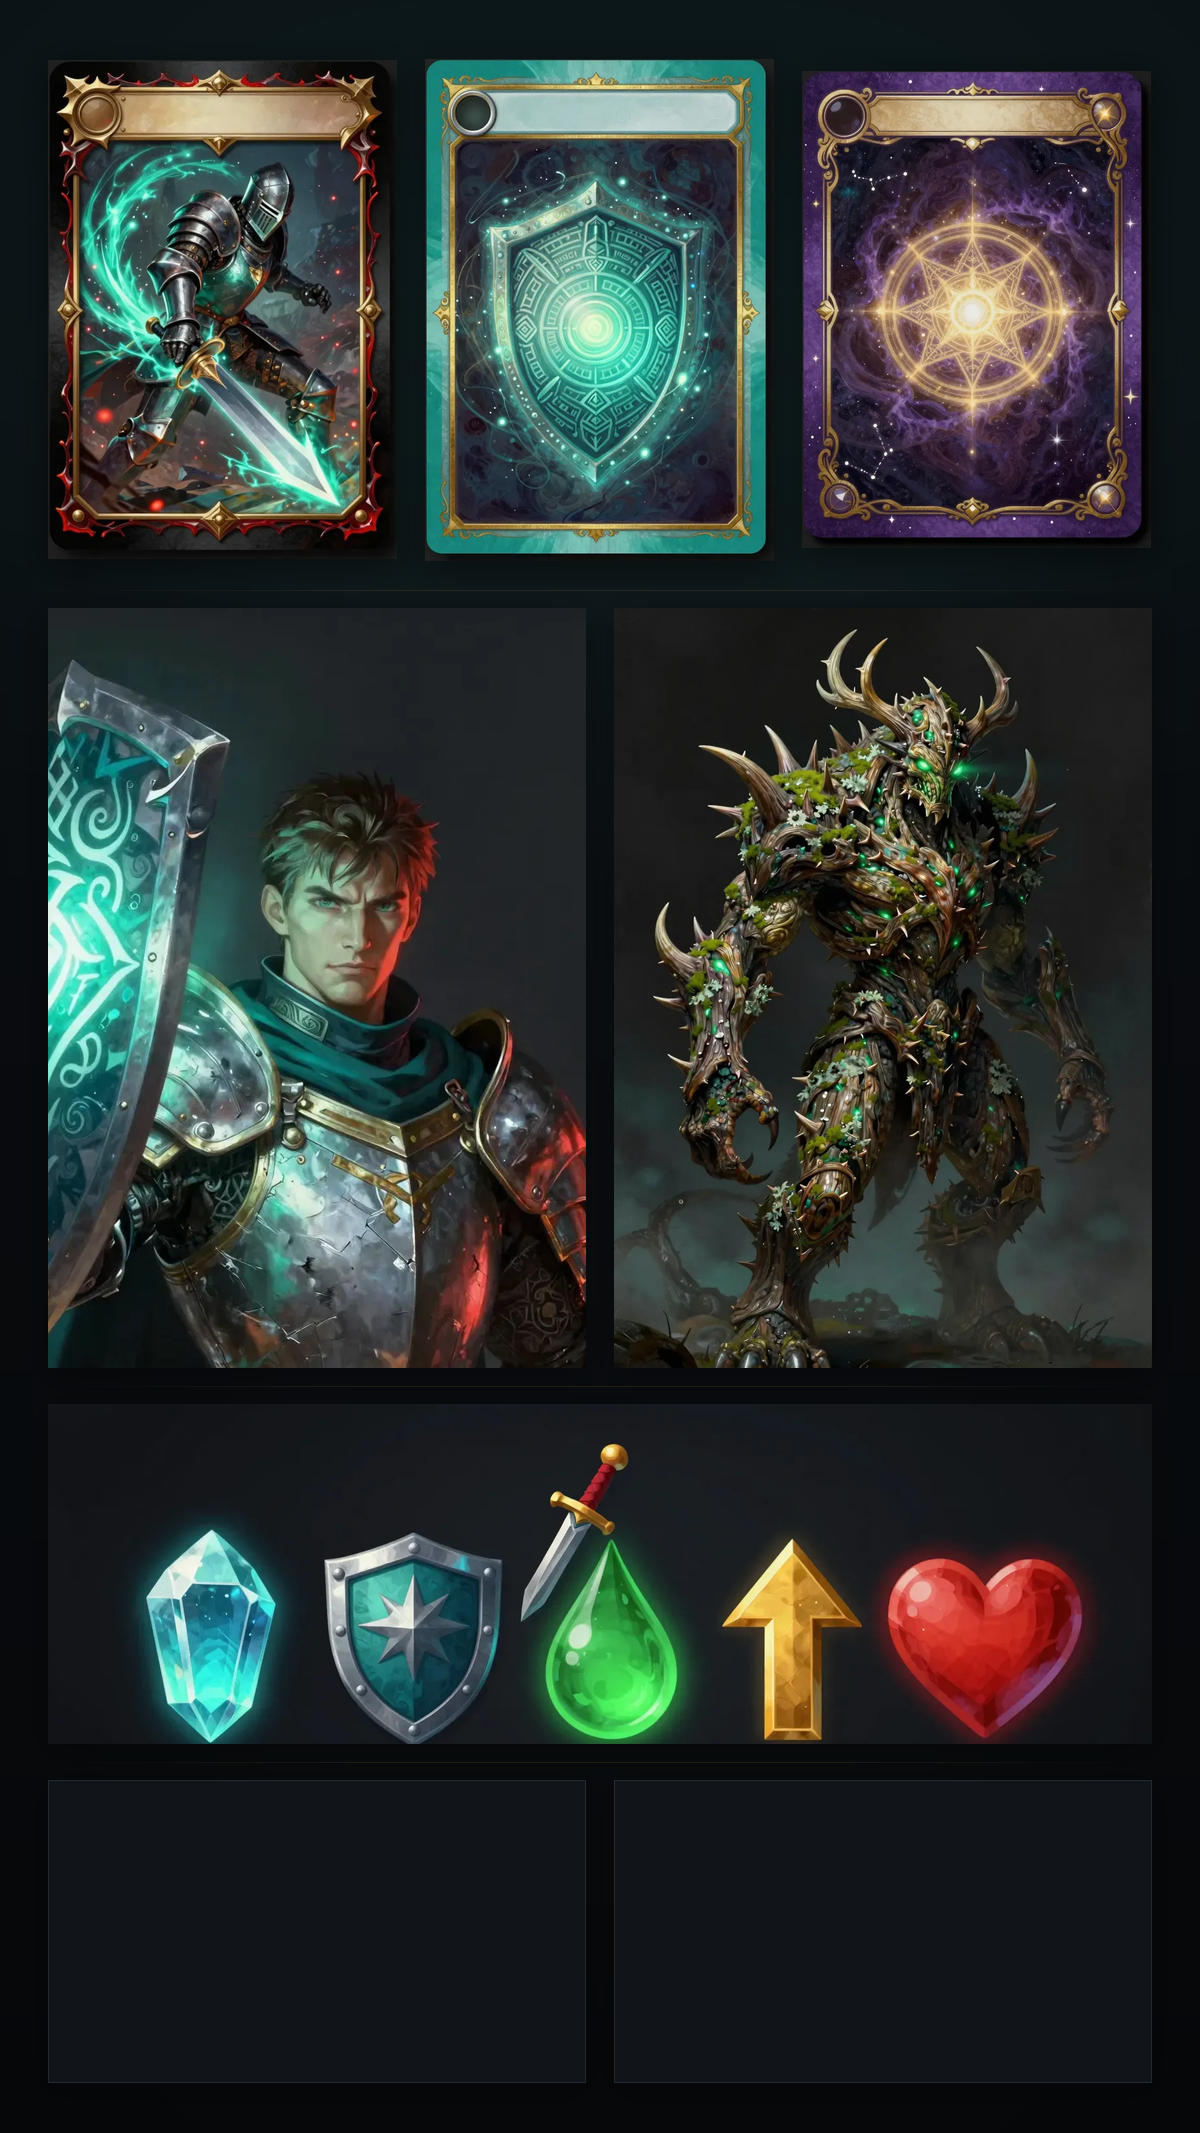
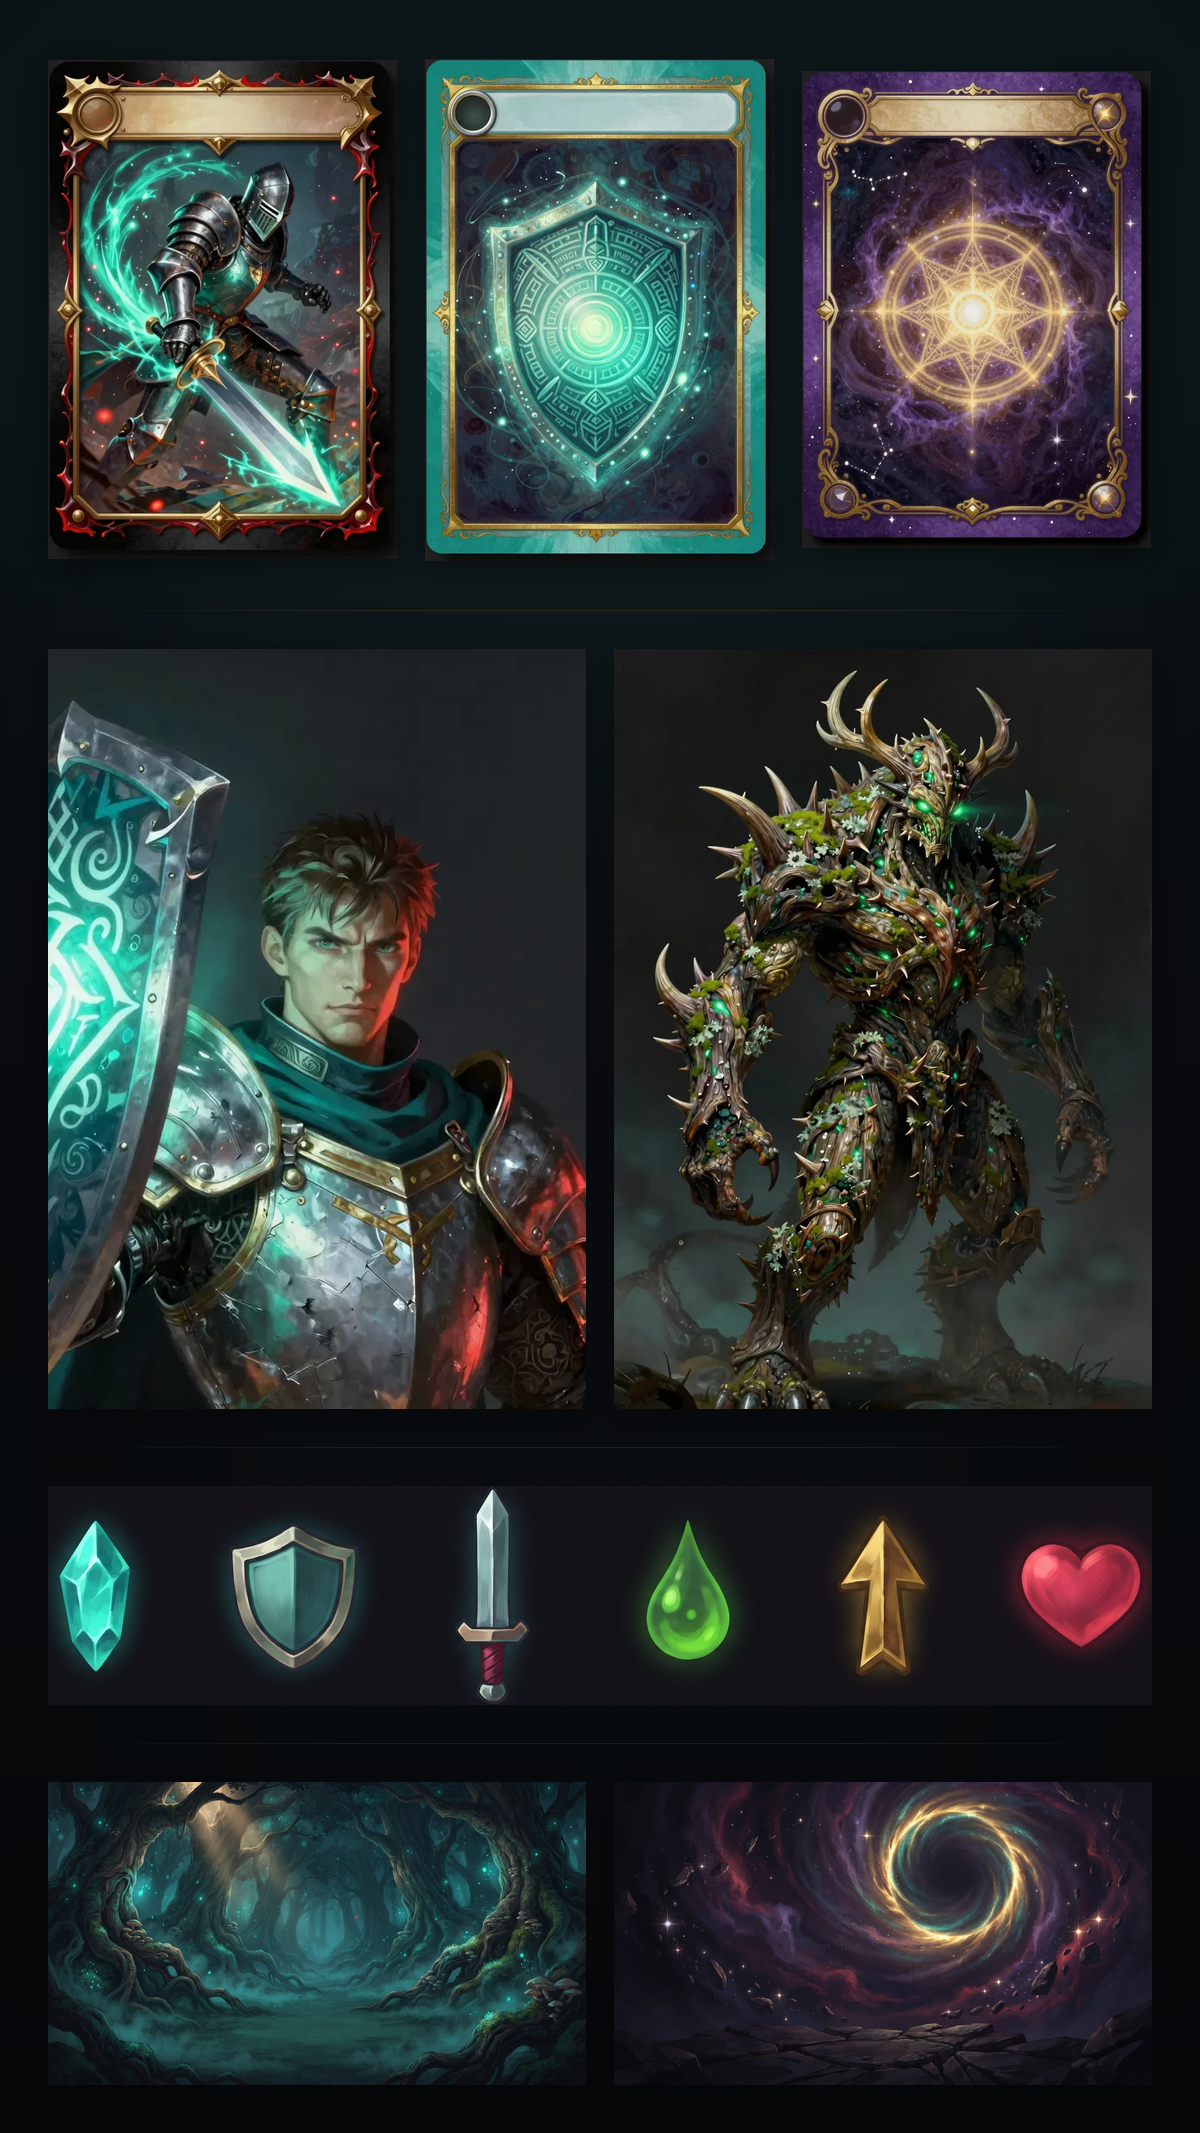
Art board: drop in the Gemini panels and even out the layout
Completes the board. The two backdrops and a respaced six-icon row came back
from Gemini clean -- no lettering, six separated icons, both backdrops 16:9 with
an empty foreground -- so they go straight into panels/.

- build_board.py: measure every row and distribute the leftover height evenly
  between them instead of using fixed gaps, so the board stays 1200x2133
  whatever the panels measure. Trim the icon row to its own content first (the
  source carries wide dead margins), and centre the crop for icons and
  backdrops while the hero and enemy keep the upward bias.
- panels/: add bg_forest.jpg, bg_cosmic.jpg, icons.jpg; drop the old icons.webp
  whose sword overlapped the droplet and read as five icons.
- QUEST_ART_DIRECTION_PROMPTS.md: record which generator produced which panel.

Claude-Session: https://claude.ai/code/session_011DNhh8n3m6VEBJvMHfDWFh

Changed region(s): [[0.0308, 0.2785, 0.9558, 0.9902]]

diff --git a/art/art-direction/build_board.py b/art/art-direction/build_board.py
@@ -54,12 +54,13 @@ def precrop(img, frac):
     return img.crop((0, 0, img.width, round(img.height * frac)))
 
 
-def cover(img, cw, ch):
+def cover(img, cw, ch, bias=4):
+    """Scale to fill the cell and crop. bias=4 pulls the crop upward (keeps heads and
+    card tops safe); bias=2 centres it (right for symmetrical art like the icon row)."""
     s = max(cw / img.width, ch / img.height)
     r = img.resize((max(1, round(img.width * s)), max(1, round(img.height * s))), Image.LANCZOS)
-    # bias the crop upward so heads and card tops are never clipped
     x = (r.width - cw) // 2
-    y = min(max(0, (r.height - ch) // 4), max(0, r.height - ch))
+    y = min(max(0, (r.height - ch) // bias), max(0, r.height - ch))
     return r.crop((x, y, x + cw, y + ch))
 
 
@@ -103,57 +104,67 @@ def rule(board, y, inset=MARGIN, alpha=34):
 
 def main():
     board = background()
-    y = MARGIN
 
-    # --- Row 1: three card frames -------------------------------------------------
+    # --- build every row first, then distribute the leftover height evenly ------
+    rows = []
+
+    # Row 1: three card frames, normalised to a common height
     cw = (W - MARGIN * 2 - GAP * 2) // 3
     ch = 524
-    cards = [load(n) for n in ("card_attack.webp", "card_skill.webp", "card_power.webp")]
-    for i, c in enumerate(cards):
-        x = MARGIN + i * (cw + GAP)
+    cards = []
+    for i, n in enumerate(("card_attack", "card_skill", "card_power")):
+        c = load(n)
         if c is None:
             continue
         im = contain(trim(c), cw, ch)
-        paste(board, im, x + (cw - im.width) // 2, y + (ch - im.height) // 2, shadow=30)
-    y += ch + 36
-    rule(board, y - 18)
+        cards.append((im, MARGIN + i * (cw + GAP) + (cw - im.width) // 2,
+                      (ch - im.height) // 2, 30))
+    rows.append((ch, cards))
 
-    # --- Row 2: hero + enemy ------------------------------------------------------
-    pw = (W - MARGIN * 2 - GAP) // 2
-    ph = 760
-    for i, (n, frac) in enumerate((("hero.webp", 0.60), ("enemy.webp", 1.0))):
+    # Row 2: hero + enemy
+    pw, ph = (W - MARGIN * 2 - GAP) // 2, 760
+    chars = []
+    for i, (n, frac) in enumerate((("hero", 0.60), ("enemy", 1.0))):
         im = load(n)
         if im is None:
             continue
         if frac < 1.0:
             im = precrop(im, frac)
-        paste(board, cover(im, pw, ph), MARGIN + i * (pw + GAP), y, shadow=24)
-    y += ph + 36
-    rule(board, y - 18)
+        chars.append((cover(im, pw, ph), MARGIN + i * (pw + GAP), 0, 24))
+    rows.append((ph, chars))
 
-    # --- Row 3: UI icon row -------------------------------------------------------
-    iw, ih = W - MARGIN * 2, 340
-    icons = load("icons.webp")
+    # Row 3: the icon row, trimmed to its own content so no dead margin is carried in
+    icons = load("icons")
     if icons is not None:
-        paste(board, cover(icons, iw, ih), MARGIN, y, shadow=20)
-    y += ih + 36
-    rule(board, y - 18)
+        im = contain(trim(icons, tol=12), W - MARGIN * 2, 420)
+        rows.append((im.height, [(im, MARGIN + (W - MARGIN * 2 - im.width) // 2, 0, 0)]))
 
-    # --- Row 4: backdrop strip ----------------------------------------------------
+    # Row 4: the two battle backdrops
     bw = (W - MARGIN * 2 - GAP) // 2
     bh = round(bw * 9 / 16)
-    for i, n in enumerate(("bg_forest.webp", "bg_cosmic.webp")):
+    beds = []
+    for i, n in enumerate(("bg_forest", "bg_cosmic")):
         im = load(n)
-        x = MARGIN + i * (bw + GAP)
-        if im is None:                        # reserved plate until the panel exists
-            ph_ = Image.new("RGB", (bw, bh), (17, 21, 25))
-            ImageDraw.Draw(ph_).rectangle((0, 0, bw - 1, bh - 1), outline=(34, 42, 48))
-            paste(board, ph_, x, y, shadow=18)
+        if im is None:
             continue
-        paste(board, cover(im, bw, bh), x, y, shadow=22)
+        beds.append((cover(im, bw, bh, bias=2), MARGIN + i * (bw + GAP), 0, 22))
+    if beds:
+        rows.append((bh, beds))
+
+    used = sum(h for h, _ in rows)
+    gap = max(24, (H - MARGIN * 2 - used) // max(1, len(rows) - 1))
+
+    y = MARGIN
+    for idx, (h, items) in enumerate(rows):
+        for im, x, dy, sh in items:
+            paste(board, im, x, y + dy, shadow=sh)
+        y += h
+        if idx < len(rows) - 1:
+            rule(board, y + gap // 2)
+            y += gap
 
     board.save(OUT, "PNG", optimize=True)
-    print(f"wrote {OUT}  {board.size[0]}x{board.size[1]}")
+    print(f"wrote {OUT}  {board.size[0]}x{board.size[1]}  rows={len(rows)} gap={gap}")
 
 
 if __name__ == "__main__":

diff --git a/art/art-direction/QUEST_ART_DIRECTION_PROMPTS.md b/art/art-direction/QUEST_ART_DIRECTION_PROMPTS.md
@@ -177,3 +177,28 @@ python3 art/art-direction/build_board.py          # composites panels/ -> quest_
 
 The build script trims the dark bleed around each card, normalises card heights, cover-crops the
 hero and enemy to a shared cell, and lays everything on a 1200x2133 (9:16) graded dark board.
+
+---
+
+## 7. Provenance of the shipped panels
+
+The board mixes two generators. Panels 4.1–4.5 came from Z-Image-Turbo at the seeds listed
+above. The Hugging Face ZeroGPU quota ran out before the backdrops and the icon re-roll, so
+those three were finished in Gemini from `QUEST_GEMINI_BOARD_PROMPTS.md`:
+
+| Panel | Generator | File |
+|---|---|---|
+| ATTACK / SKILL / POWER cards | Z-Image-Turbo, seeds 710401 / 710422 / 710403 | `panels/card_*.webp` |
+| Hero, enemy | Z-Image-Turbo, seeds 710424 / 710405 | `panels/hero.webp`, `panels/enemy.webp` |
+| Icon row | Gemini, prompt C | `panels/icons.jpg` |
+| Forest, cosmic backdrops | Gemini, prompts A and B | `panels/bg_forest.jpg`, `panels/bg_cosmic.jpg` |
+
+The two hands sit together because both were given the same Style, Palette and Exclusion
+blocks. Gemini's output runs a touch smoother in the brushwork and a touch cooler in the
+shadows; at panel size on a dark board that reads as depth rather than as a seam. If the set
+is ever extended, matching Z-Image is the harder of the two to hit — generate new character
+and card art there first, and let Gemini fill environments and icons around it.
+
+The single-shot whole-board comparison was never generated; the quota ran out before it. The
+composited board is the only version, which is the one worth keeping anyway — a single pass
+over a layout this dense loses the card borders and the icon silhouettes.
